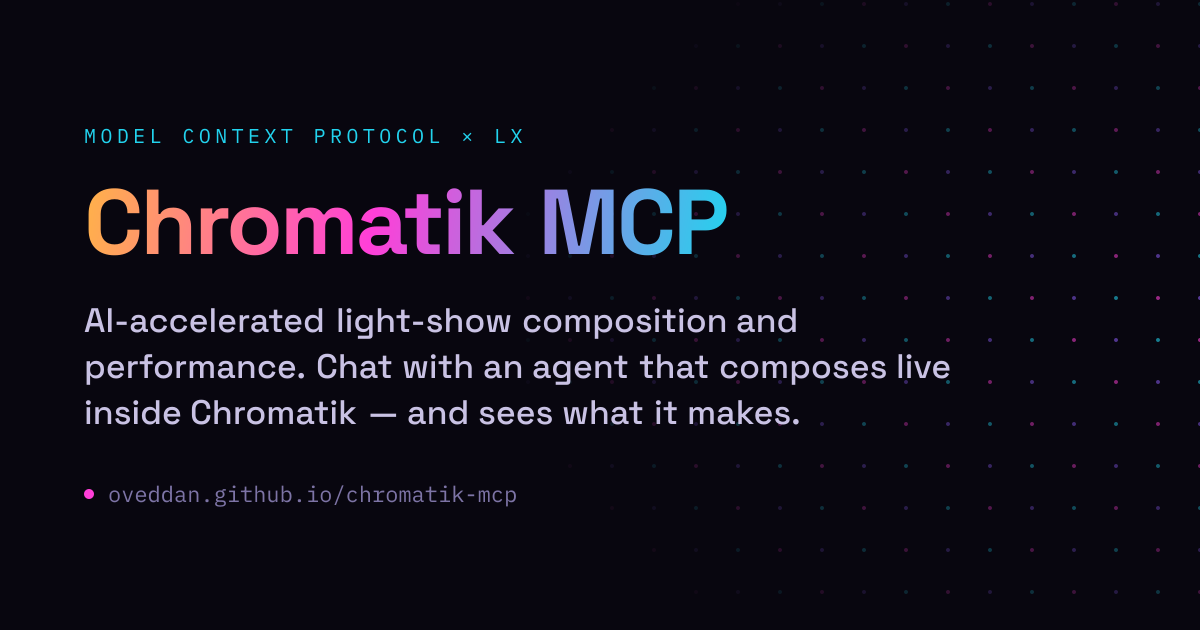
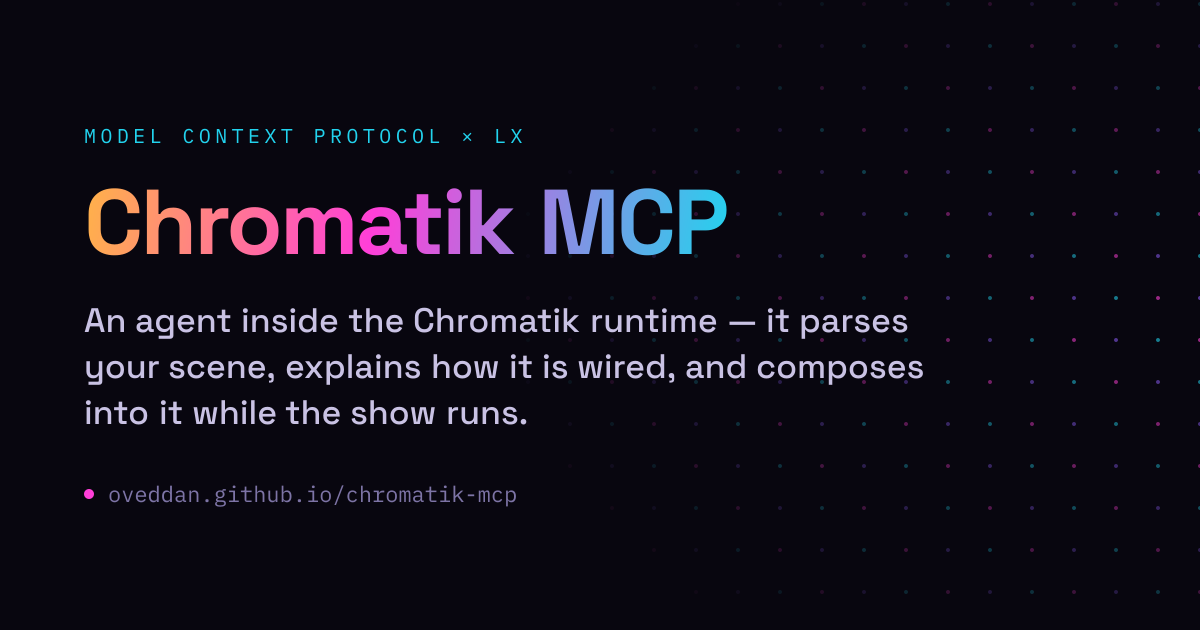
Docs home: lead with parsing the scene, drop the TouchDesigner comp (#85)
"AI-accelerated composition and performance" described how the thing is
built, and only in creation verbs — while parsing an unfamiliar scene, the
capability that's hardest to claim elsewhere, had no demo on the page.

- Restructures the home page around what a session actually does: parse the
  scene → compose → perform → debug. Six unlabeled transcripts become four
  sections that each carry one job.
- Adds a transcript for walking an inherited project's wiring — channels,
  groups, modulation mappings, palette cycle.
- Rewrites the description string in all six places it appears, and the
  share card's subhead, to name those verbs instead of "AI-accelerated".
- Drops the TouchDesigner comparison — it borrowed credibility and put an
  outbound link at the point of highest intent.

Hero h1 stays the product name; the tagline carries the claim.

Changed region(s): [[0.0617, 0.4825, 0.8017, 0.6333], [0.0925, 0.6333, 0.6783, 0.6937]]

diff --git a/README.md b/README.md
@@ -1,6 +1,6 @@
 # chromatik-mcp
 
-A drop-in LX/Chromatik package for AI-driven show composition over MCP.
+A drop-in LX/Chromatik package that lets an agent read, explain, compose into, and debug a live show over MCP.
 
 **Status**: the v1 tool surface is working end-to-end — discovery, parameters, tempo, modulation wiring, channels/patterns/effect chains, mixer performance controls (crossfader, cue/aux), palette (read-write), snapshots, model views, render previews, OSC addressing, and a generated semantic catalog of what each component does. MIDI mapping is the remaining slice. See [docs/build-plan.md](docs/build-plan.md) for the roadmap and [docs/tool-conventions.md](docs/tool-conventions.md) for the tool-surface conventions.
 
